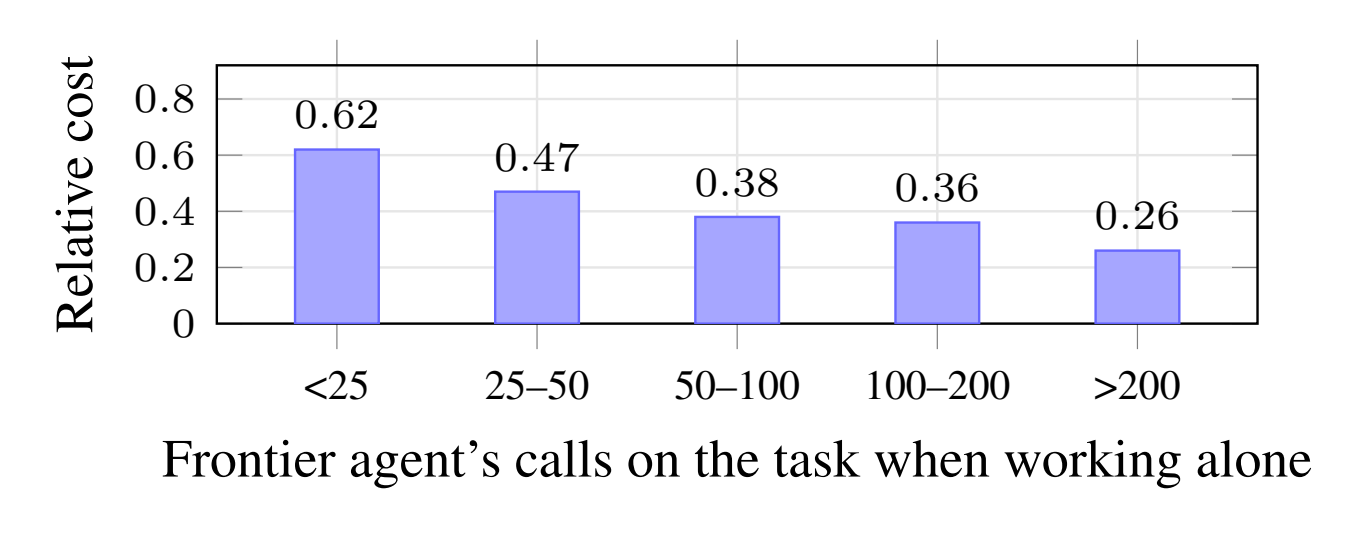
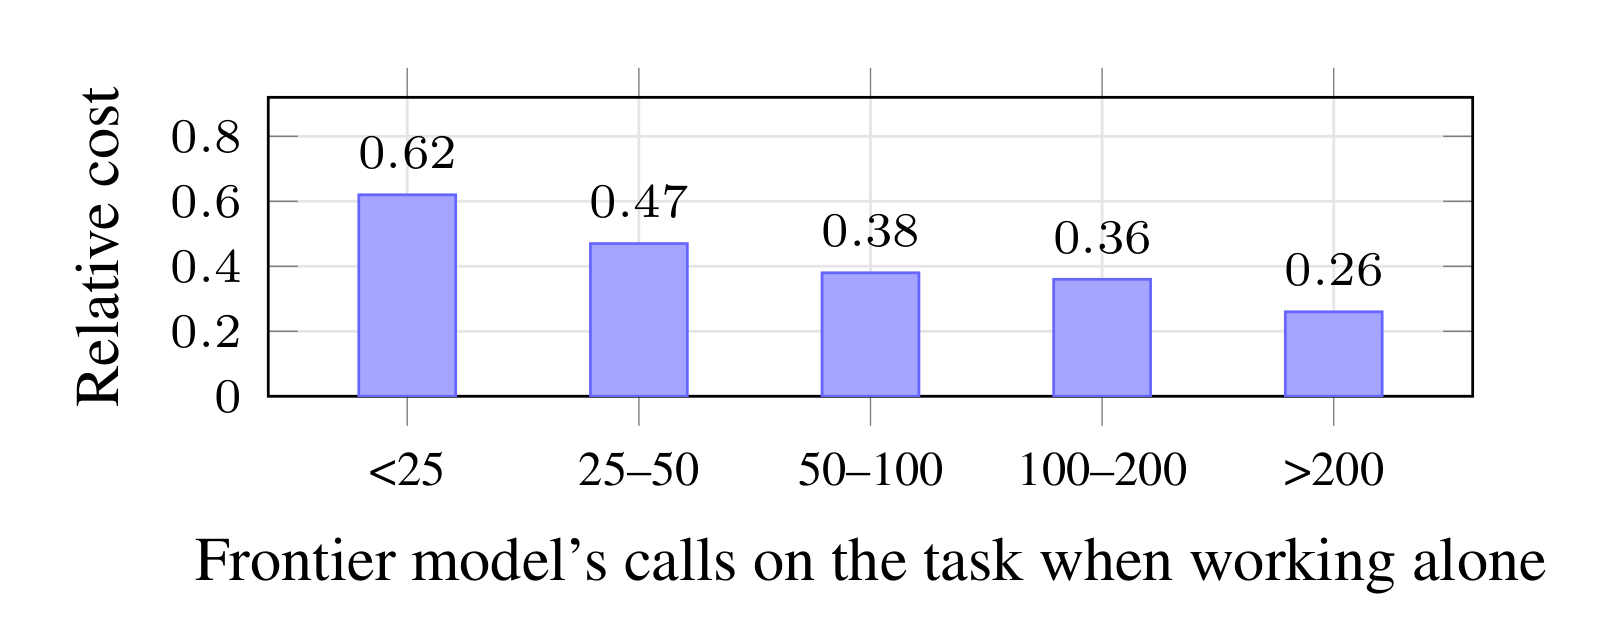
README: headline results, new diagram, paper terminology
- Headline banner (33% coding, 41% search, 34% with a 2B SLM, no loss)
- New overview diagram from the paper's Figure 1 (built on stock Claude
  Code; orange = what Delegent adds) and Figure 2 with current labels
- Full coding and search result tables, Sol vs Opus 5.5 on DeepSWE
- "frontier model" / "main loop" terminology in docs and docstrings

diff --git a/src/delegent/delegate.py b/src/delegent/delegate.py
@@ -1,10 +1,10 @@
 """Delegation to the SLM.
 
-A delegated subtask runs in a fresh context on the SLM, and only its final report returns to the frontier agent. For
+A delegated subtask runs in a fresh context on the SLM, and only its final report returns to the frontier model. For
 coding, the subtask is a Claude Code subagent (Claude Code's own Agent tool, routed to the SLM by the relay). For
-search, the frontier agent calls the `Delegate` tool defined here: the SLM subagent searches the corpus in its own tool
+search, the frontier model calls the `Delegate` tool defined here: the SLM subagent searches the corpus in its own tool
 loop and returns a report with evidence and a confidence, and the harness looks up every evidence line in the cited
-document before the report reaches the frontier agent.
+document before the report reaches the frontier model.
 
 The search subagent uses the research loop and tool protocol of AREX-Turbo (search, visit, update_context, finish),
 backed by the corpus; its prompts are vendored in delegent/prompts/arex.py.

diff --git a/src/delegent/cli.py b/src/delegent/cli.py
@@ -1,4 +1,4 @@
-"""delegent: a frontier agent that hands focused subtasks to a local SLM.
+"""delegent: a frontier model that hands focused subtasks to a local SLM.
 
   delegent claude  --frontier gpt-6.1-sol --slm http://localhost:8000 --slm-model Qwen3.8-27B-FP8 [-- claude args]
   delegent relay   --frontier gpt-6.1-sol --slm http://localhost:8000 --slm-model Qwen3.8-27B-FP8 --port 8787
@@ -219,7 +219,7 @@ def main(argv=None):
     p.add_argument('--index', help='local BM25 index (delegent index)')
     p.add_argument('--questions', required=True, help='JSONL with id and question')
     p.add_argument('--out', required=True)
-    p.add_argument('--no-delegate', action='store_true', help='the frontier agent alone (baseline)')
+    p.add_argument('--no-delegate', action='store_true', help='the frontier model alone (baseline)')
     p.add_argument('--workers', type=int, default=8)
     p.add_argument('--limit', type=int, default=0)
     p.add_argument('--max-steps', type=int, default=100)

diff --git a/src/delegent/agent.py b/src/delegent/agent.py
@@ -86,7 +86,7 @@ def run_tool(corpus, name, inp):
 
 
 def answer(question, frontier, corpus, delegate=None, max_steps=100, ledger=None, frontier_model=None):
-    """Run the frontier agent on one question -> result row (answer, frontier usage, actions, delegations)."""
+    """Run the frontier model on one question -> result row (answer, frontier usage, actions, delegations)."""
     system = SYSTEM + ('\n\n' + instruction({'Delegate'}).rstrip('\n') if delegate else '')
     payload = {'model': frontier_model or getattr(frontier, 'model', 'frontier'), 'system': system,
                'tools': TOOLS + ([DELEGATE_TOOL] if delegate else []), 'max_tokens': 32768,

diff --git a/src/delegent/__init__.py b/src/delegent/__init__.py
@@ -1,2 +1,2 @@
-"""Delegent: a frontier agent that hands focused subtasks to a local small language model (SLM)."""
+"""Delegent: a frontier model that hands focused subtasks to a local small language model (SLM)."""
 __version__ = '0.2.0'

diff --git a/README.md b/README.md
@@ -1,68 +1,118 @@
 <h1 align="center">Delegent</h1>
 
 <p align="center">
-  <b>Let the frontier agent think. Let a local SLM do the legwork.</b>
+  <b>A multi-agent harness that reduces cost without sacrificing performance.</b><br>
+  Built on Claude Code. The frontier model leads; a small language model on your own GPU does the legwork.
 </p>
 
 <p align="center">
   <a href="LICENSE"><img alt="License: Apache 2.0" src="https://img.shields.io/badge/license-Apache%202.0-blue.svg"></a>
   <img alt="Python 3.10+" src="https://img.shields.io/badge/python-3.10%2B-blue.svg">
+  <img alt="Built on Claude Code" src="https://img.shields.io/badge/built%20on-Claude%20Code-orange.svg">
   <img alt="SLM on vLLM" src="https://img.shields.io/badge/SLM-vLLM-green.svg">
 </p>
 
+<table align="center">
+  <tr>
+    <td align="center"><h2>33%</h2>frontier cost on<br>long-horizon coding<br><sub>DeepSWE, 27B FP8 SLM</sub></td>
+    <td align="center"><h2>41%</h2>frontier cost on<br>agentic search<br><sub>694 questions, 27B FP8 SLM</sub></td>
+    <td align="center"><h2>34%</h2>with a 2B SLM<br>that fits on a laptop<br><sub>DeepSWE, MiniCPM5-2B</sub></td>
+    <td align="center"><h2>No loss</h2>in solved tasks<br>or correct answers<br><sub>nothing is trained</sub></td>
+  </tr>
+</table>
+
 Agents built on frontier models are expensive, because at every step the model re-reads its entire context. Much of
 that work is legwork: locating code, reproducing a bug, running tests, issuing searches, reading documents.
-**Delegent** keeps the frontier agent in charge of every task and hands this legwork to a small language model (SLM)
-running on a GPU you control. The SLM never answers on its own. The frontier agent reads its short report, checks what
+**Delegent** keeps the frontier model in charge of every task and hands this legwork to a small language model (SLM)
+running on a GPU you control. The SLM never answers on its own. The frontier model reads its short report, checks what
 matters, and writes the final patch or answer. Nothing is trained, so either model can be swapped.
-
-## Results
-
-With GPT-6.1-Sol as the frontier agent, Delegent cuts the frontier model's bill on long-horizon coding to a third,
-**with a 27B or even a 2B SLM**, and with no loss in task performance.
-
-| Task set | Frontier agent alone | + Qwen3.8-27B-FP8 | + MiniCPM5-2B |
-|:--|:-:|:-:|:-:|
-| SWE-bench Verified (50 tasks) | 46 solved | 46 solved, **44%** cost | 47 solved, **53%** cost |
-| SWE-bench Pro (75 tasks) | 63 solved | 63 solved, **37%** cost | 62 solved, **44%** cost |
-| DeepSWE v1.1 (50 tasks) | 29 solved | 29 solved, **33%** cost | 30 solved, **34%** cost |
-| Agentic search (694 questions) | 663 correct | 663 correct, **41%** cost | not evaluated |
-
-<sub>Cost is the frontier model's cost at API prices with prompt caching, relative to the frontier agent alone in the
-same harness. On DeepSWE it falls from $2.11 to $0.70 per task with Qwen3.8-27B-FP8 and to $0.71 with MiniCPM5-2B.
-Even with Qwen3.8-27B-FP8 paid for at API prices, a DeepSWE task costs 38% of the frontier agent alone.</sub>
-
-The savings grow with the legwork. The longer the frontier agent would work on a task by itself, the more of that work
-moves to the SLM, down to about a quarter of the cost on tasks that take it more than 200 calls alone.
-
-<p align="center">
-  <img src="assets/savings-vs-legwork.png" alt="Median relative frontier cost per coding task falls from 0.62 for tasks with fewer than 25 calls alone to 0.26 for tasks with more than 200" width="620">
-  <br>
-  <sub>Median frontier cost with Delegent relative to the frontier agent alone, per coding task, by how many calls the
-  frontier agent makes on the task alone (350 task pairs, three coding sets, both SLMs).</sub>
-</p>
 
 ## How it works
 
 <p align="center">
-  <img src="assets/overview.png" alt="The frontier agent delegates subtasks through the Delegent harness, which runs them in parallel on SLM subagents on a local GPU and returns their reports with an automatic quote check" width="560">
+  <img src="assets/overview.png" alt="The user talks to the main loop, where the frontier model leads the task and spawns stacked SLM subagents through the Agent and Delegate tools; both loops act on the environment (a repository or a corpus) through tools such as search, Bash, Read and Edit, plus get_document for the main loop and visit for the subagents" width="640">
+  <br>
+  <sub>Delegent starts from stock Claude Code, and everything in orange is what it adds. The user talks to the main
+  loop, where the frontier model leads the task and spawns subagents. The loops share most tools, and each has a few of
+  its own.</sub>
 </p>
 
-Delegent is one harness with one rule: **calls from the agent in charge go to the frontier model, and every subtask
-runs on the SLM.** Subtasks issued in the same turn run in parallel, each in its own tool loop with a fresh context,
-and only their final reports reach the frontier agent, never their tool output.
+Delegent is one harness with one rule: **calls from the main loop go to the frontier model, and every subtask runs on
+the SLM.** Subtasks issued in the same turn run in parallel, each in its own tool loop with a fresh context, and only
+their final reports reach the frontier model, never their tool output. On top of stock Claude Code, Delegent adds:
 
-- **One instruction.** A short [instruction](src/delegent/instructions/delegent.md) covers both kinds of delegation,
-  Claude Code's subagents for coding and the `Delegate` tool for search. It tells the frontier agent what to delegate
-  and to keep its own tool use to a few targeted checks.
-- **Coding.** Claude Code runs unmodified. Its main agent talks to the frontier model, while its subagents and its small
-  auxiliary model talk to the SLM. The instruction, installed as a user-level `CLAUDE.md`, asks the frontier agent to
-  delegate investigation and verification and to make every code change itself.
-- **Agentic search.** The frontier agent gets a `Delegate` tool next to `search` and `get_document`. A delegated SLM
-  subagent searches the same corpus and reports an answer with evidence, and Delegent looks up every evidence line in
-  the cited document before the report comes back.
+- **A relay that routes model calls by role.** Claude Code runs unmodified. Its main loop talks to the frontier model,
+  while its subagents and its small auxiliary model talk to the SLM. The frontier model can be an OpenAI or an
+  Anthropic model.
+- **One short instruction.** The [instruction](src/delegent/instructions/delegent.md) tells the frontier model what to
+  delegate and to keep its own tool use to a few targeted checks. For coding, it is installed as a user-level
+  `CLAUDE.md` and asks the frontier model to delegate investigation and verification and to make every code change
+  itself.
+- **Search tools and a `Delegate` tool.** For agentic search, the frontier model gets `search`, `get_document` and
+  `Delegate`. A delegated SLM subagent searches the same corpus with `search` and `visit` and reports an answer with
+  evidence.
+- **A quote check.** Before a search report comes back, Delegent looks up every evidence line in the cited document
+  and notes whether it was found verbatim.
 - **Caching on both sides.** Frontier calls carry a stable prompt-cache key per conversation, and each SLM subagent is
   pinned to one vLLM replica, so its growing prefix stays cached there.
+
+## Results
+
+All numbers are from our paper, with GPT-6.1-Sol at high reasoning effort as the frontier model, run in the same
+harness with and without delegation. Cost is the frontier model's cost at API prices with prompt caching.
+
+### Long-horizon coding
+
+| Task set | Frontier model alone | + Qwen3.8-27B-FP8 | + MiniCPM5-2B |
+|:--|:-:|:-:|:-:|
+| SWE-bench Verified (50 tasks) | 46 solved, $0.244 | 46 solved, **44%** cost | 47 solved, **53%** cost |
+| SWE-bench Pro (75 tasks) | 63 solved, $0.617 | 63 solved, **37%** cost | 62 solved, **44%** cost |
+| DeepSWE v1.1 (50 tasks) | 29 solved, $2.110 | 29 solved, **33%** cost | 30 solved, **34%** cost |
+
+<sub>Dollar amounts are frontier cost per task. On DeepSWE it falls from $2.11 to $0.70 with Qwen3.8-27B-FP8 and to
+$0.71 with MiniCPM5-2B. Even with Qwen3.8-27B-FP8 paid for at API prices, a DeepSWE task costs 38% of the frontier
+model alone.</sub>
+
+### Agentic search
+
+| Dataset | Frontier model alone | + Qwen3.8-27B-FP8 |
+|:--|:-:|:-:|
+| BrowseComp-Plus, own corpus (200) | 193 correct, $0.114 | 192 correct, **63%** cost |
+| BrowseComp-Plus (80) | 72 correct, $0.211 | 71 correct, **31%** cost |
+| Total Recall QA (68) | 64 correct, $0.048 | 67 correct, **31%** cost |
+| HotpotQA (204) | 198 correct, $0.033 | 198 correct, **25%** cost |
+| DeepSearchQA, find one (71) | 70 correct, $0.067 | 70 correct, **29%** cost |
+| DeepSearchQA, find all (71) | 66 correct, $0.121 | 65 correct, **26%** cost |
+| **All (694)** | **663 correct, $0.091** | **663 correct, 41% cost** |
+
+<sub>Dollar amounts are frontier cost per question. All datasets except the first are from the CMASS suite over the
+ClimbMix corpus, searched with BM25.</sub>
+
+### The savings grow with the legwork
+
+The longer the frontier model would work on a task by itself, the more of that work moves to the SLM, down to about a
+quarter of the cost on tasks that take it more than 200 calls alone.
+
+<p align="center">
+  <img src="assets/savings-vs-legwork.png" alt="Median relative frontier cost per coding task falls from 0.62 for tasks with fewer than 25 calls alone to 0.26 for tasks with more than 200" width="620">
+  <br>
+  <sub>Median frontier cost with Delegent relative to the frontier model alone, per coding task, by how many calls the
+  frontier model makes on the task alone (350 task pairs, three coding sets, both SLMs).</sub>
+</p>
+
+### Two frontier models
+
+The frontier model behind Delegent can change freely. On DeepSWE, we also ran Claude Opus 5.5 at xhigh effort.
+
+| Per DeepSWE task (50 tasks) | GPT-6.1-Sol | Claude Opus 5.5 |
+|:--|:-:|:-:|
+| How it works alone | long loop of edit, test, fix | plans first, then acts |
+| Solved alone | 29 | 34 |
+| Solved with an SLM | 29.5 | 38 |
+| Frontier cost with an SLM | **34%** | **69%** |
+
+<sub>With an SLM, values average the two SLMs. Delegent saves the most for a frontier model that would otherwise do
+much of the legwork itself.</sub>
 
 ## Quick start
 
@@ -146,7 +196,7 @@ delegent search --frontier gpt-6.1-sol --slm http://localhost:8000 --slm-model Q
   --corpus local --corpus-root docs/ --index index/ --questions questions.jsonl --out runs/local
 ```
 
-Add `--no-delegate` to run the frontier agent alone as a baseline. Every answer lands in `<out>/questions/<id>.json`
+Add `--no-delegate` to run the frontier model alone as a baseline. Every answer lands in `<out>/questions/<id>.json`
 with its frontier usage and delegations.
 
 ### Measuring cost

diff --git a/REPRODUCING.md b/REPRODUCING.md
@@ -8,8 +8,8 @@ harness itself and drops the cluster plumbing.
 
 | Role | Model | Serving |
 |---|---|---|
-| Frontier agent | GPT-6.1-Sol, high reasoning effort | OpenAI Responses API |
-| Frontier agent (ablation) | Claude Opus 5.5 | Anthropic Messages API |
+| Frontier model | GPT-6.1-Sol, high reasoning effort | OpenAI Responses API |
+| Frontier model (ablation) | Claude Opus 5.5, xhigh reasoning effort | Anthropic Messages API |
 | SLM | Qwen3.8-27B-FP8 | vLLM, one GPU per replica, 131,072-token window |
 | SLM | MiniCPM5-2B (coding only) | vLLM, one GPU per replica, 131,072-token window |
 
@@ -24,7 +24,7 @@ Qwen3.8-27B-FP8 answers without thinking, with temperature 0.7 and top-p 0.8.
   `delegent claude`) and 131,072 tokens for the SLM; at most 32,768 output tokens per call.
 - Tool time: 60 minutes per task (90 on DeepSWE), not counting time spent waiting for a model.
 - The coding text of the [instruction](src/delegent/instructions/delegent.md) is the user-level `CLAUDE.md`; the
-  frontier agent alone runs without it.
+  frontier model alone runs without it.
 - Prompts: SWE-bench Verified gets "Please fix the following issue in the repository at {path}. Inspect the code,
   implement the fix, and run relevant tests. The repository and dependencies are available locally." followed by the
   problem statement; SWE-bench Pro adds the task's requirements and interface; DeepSWE uses the task's own
@@ -36,7 +36,7 @@ Qwen3.8-27B-FP8 answers without thinking, with temperature 0.7 and top-p 0.8.
 
 ## Agentic search
 
-- The frontier agent has `search` (top 10 BM25 hits with the best-matching passage) and `get_document` (8,000
+- The frontier model has `search` (top 10 BM25 hits with the best-matching passage) and `get_document` (8,000
   characters per page), at most 100 turns, then one turn without tools for the final answer.
 - With delegation it also has `Delegate` and the search text of the [instruction](src/delegent/instructions/delegent.md). Each call
   runs one SLM subagent of at most 80 steps, with no retries.
@@ -61,9 +61,9 @@ $0.0005 per task, which the paper's cost figures do not include.
   `delegent claude` starts one relay per Claude Code session.
 - **Replica pinning.** The research code placed subagent conversations on replicas with a load-aware sticky proxy;
   this release pins each conversation to a replica by a hash of its opening.
-- **Frontier tools on the BrowseComp-Plus corpus.** In the paper, the frontier agent searched the BrowseComp-Plus
+- **Frontier tools on the BrowseComp-Plus corpus.** In the paper, the frontier model searched the BrowseComp-Plus
   corpus with Claude Code's Bash and Read tools (ripgrep over the files), while its SLM subagent used BM25. This release
-  gives the frontier agent the same `search` and `get_document` tools on every corpus.
+  gives the frontier model the same `search` and `get_document` tools on every corpus.
 - **Subagent prompt on ClimbMix.** The research code told the SLM subagent to cite `/corpus/` paths on both corpora;
   this release names ClimbMix documents by docid.
 - **Not included.** Container images, task graders and the answer judge; use each benchmark's official harness.
